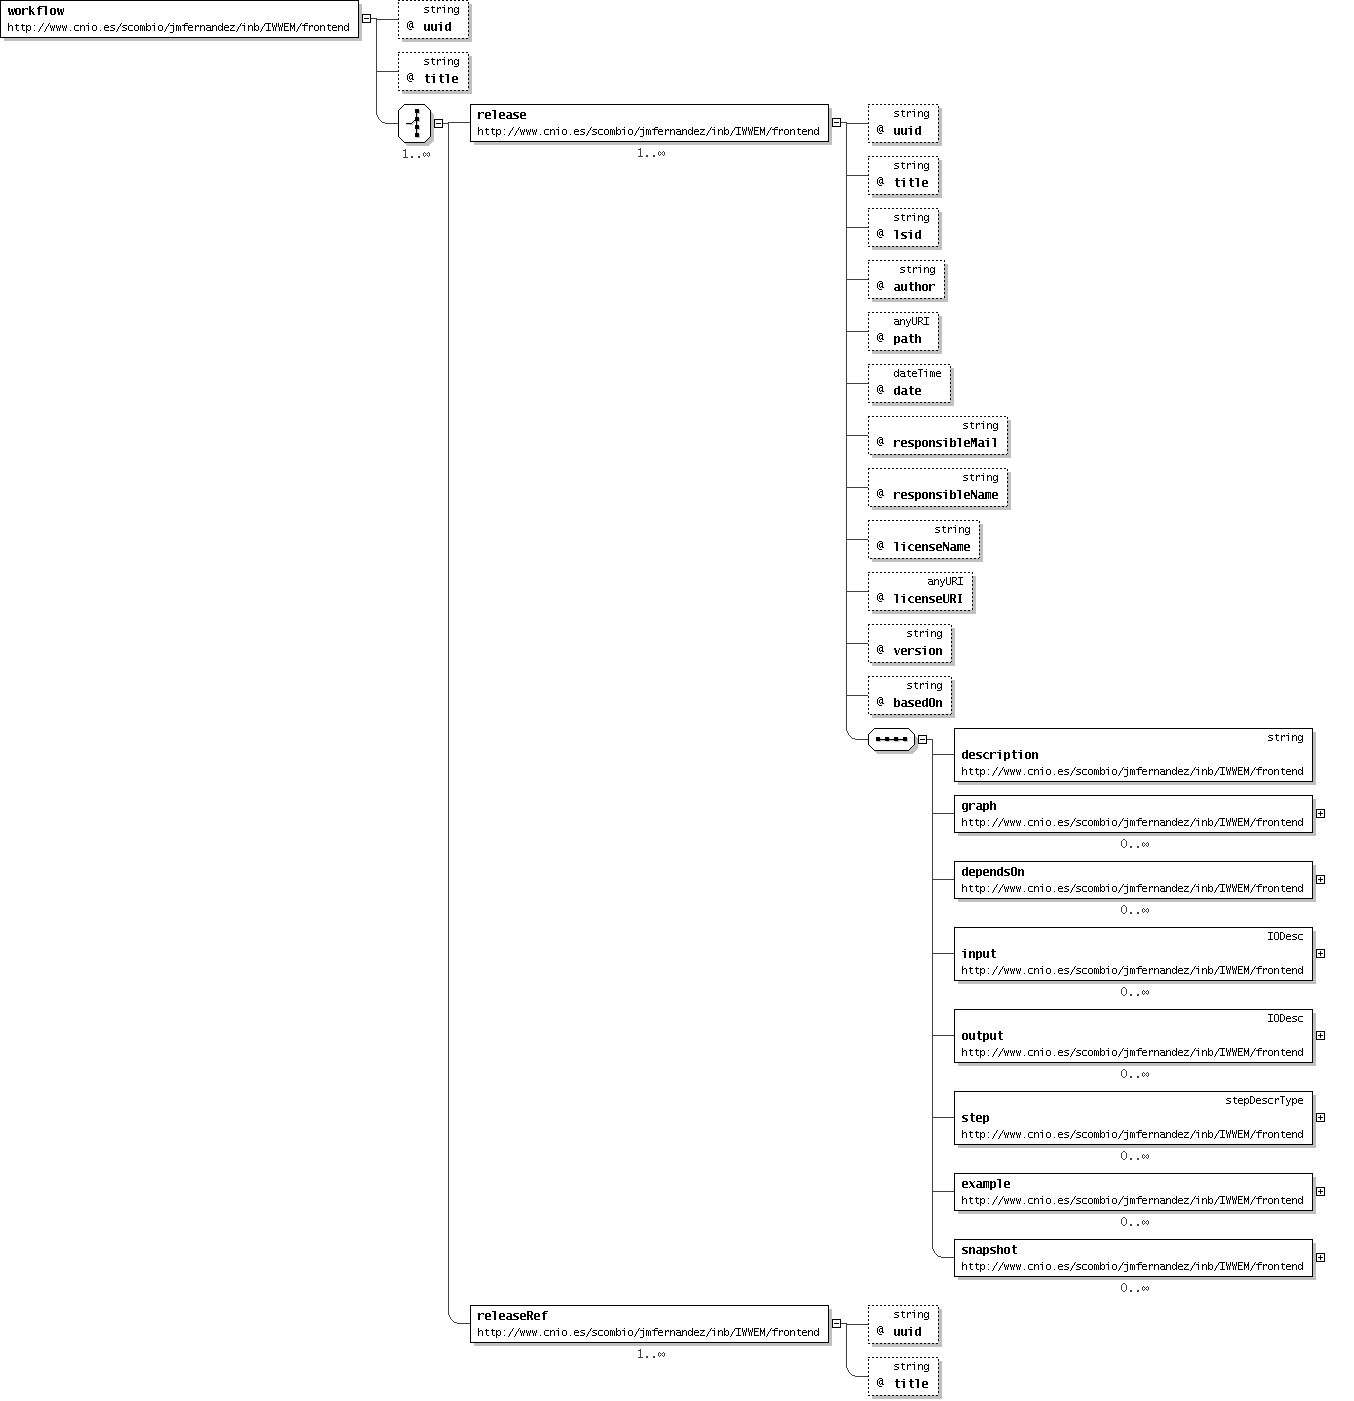
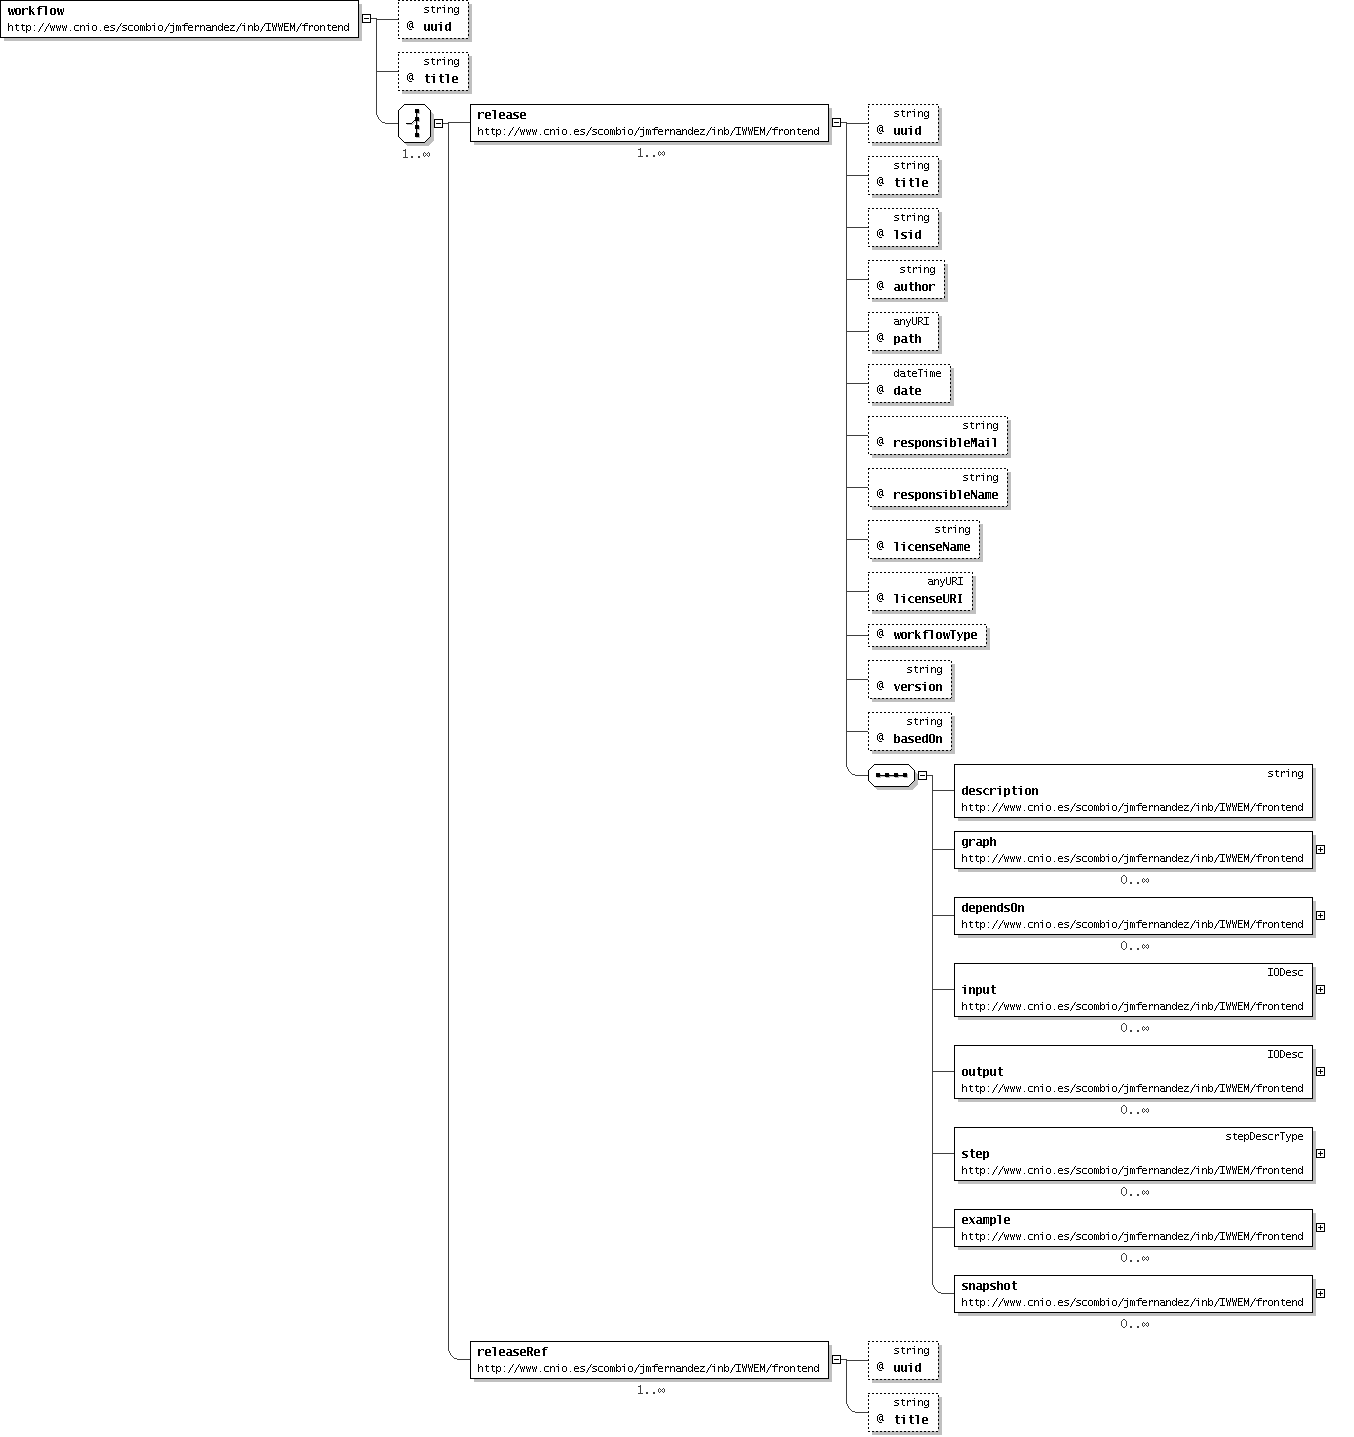
*	IWWEM-messages have been updated to take into account the fact 	that a workflow must be labeled with its workflow kind. *	Frontends documentation has been updated. It fixes #24.
git-svn-id: http://trac.bioinfo.cnio.es/svn/iwwem/trunk@267 d1dc078d-3102-4980-90c0-2a41560b4363

diff --git a/weblauncher/docs/IWWEM-messages.xsd.html b/weblauncher/docs/IWWEM-messages.xsd.html
@@ -395,13 +395,13 @@ div#legend div.hint {
       <script type="text/javascript">
 <!--
           /* IDs of XML Instance Representation boxes */
-var xiBoxes = new Array('h1245665552_xibox', 'h787032828_xibox', 'h-770931028_xibox', 'h-1662904490_xibox', 'h-573425983_xibox', 'h-1580830651_xibox', 'h-358993540_xibox', 'h119908574_xibox', 'h2005213789_xibox', 'h-387077432_xibox', 'h-755110523_xibox', 'h1073158951_xibox', 'h1550451623_xibox', 'h-1091810772_xibox', 'h819360172_xibox', 'h-1903422826_xibox', 'h932847914_xibox', 'h1300956578_xibox', 'h-1338045275_xibox', 'h1663084319_xibox', 'h194883282_xibox', 'h-315118956_xibox', 'h1320607423_xibox', 'h-543288000_xibox', 'h886358932_xibox', 'h1132667318_xibox', 'h1535272431_xibox', 'h-852612557_xibox');
+var xiBoxes = new Array('h1245665552_xibox', 'h787032828_xibox', 'h-770931028_xibox', 'h-1662904490_xibox', 'h-573425983_xibox', 'h-1580830651_xibox', 'h-358993540_xibox', 'h119908574_xibox', 'h2005213789_xibox', 'h-387077432_xibox', 'h-755110523_xibox', 'h1073158951_xibox', 'h1550451623_xibox', 'h-1091810772_xibox', 'h819360172_xibox', 'h-1903422826_xibox', 'h932847914_xibox', 'h624739177_xibox', 'h1300956578_xibox', 'h-1338045275_xibox', 'h1663084319_xibox', 'h194883282_xibox', 'h-315118956_xibox', 'h1320607423_xibox', 'h-543288000_xibox', 'h886358932_xibox', 'h1132667318_xibox', 'h1535272431_xibox', 'h-852612557_xibox');
 /* IDs of diagram boxes */
-var diagramBoxes = new Array('h1245665552_diagram', 'h787032828_diagram', 'h-770931028_diagram', 'h-1662904490_diagram', 'h-573425983_diagram', 'h-1580830651_diagram', 'h-358993540_diagram', 'h119908574_diagram', 'h2005213789_diagram', 'h-387077432_diagram', 'h-755110523_diagram', 'h1073158951_diagram', 'h1550451623_diagram', 'h-1091810772_diagram', 'h819360172_diagram', 'h-1903422826_diagram', 'h932847914_diagram', 'h1300956578_diagram', 'h-1338045275_diagram', 'h1663084319_diagram', 'h194883282_diagram', 'h-315118956_diagram', 'h1320607423_diagram', 'h-543288000_diagram', 'h886358932_diagram', 'h1132667318_diagram', 'h1535272431_diagram', 'h-852612557_diagram');
+var diagramBoxes = new Array('h1245665552_diagram', 'h787032828_diagram', 'h-770931028_diagram', 'h-1662904490_diagram', 'h-573425983_diagram', 'h-1580830651_diagram', 'h-358993540_diagram', 'h119908574_diagram', 'h2005213789_diagram', 'h-387077432_diagram', 'h-755110523_diagram', 'h1073158951_diagram', 'h1550451623_diagram', 'h-1091810772_diagram', 'h819360172_diagram', 'h-1903422826_diagram', 'h932847914_diagram', 'h624739177_diagram', 'h1300956578_diagram', 'h-1338045275_diagram', 'h1663084319_diagram', 'h194883282_diagram', 'h-315118956_diagram', 'h1320607423_diagram', 'h-543288000_diagram', 'h886358932_diagram', 'h1132667318_diagram', 'h1535272431_diagram', 'h-852612557_diagram');
 /* IDs of logical diagram boxes */
 var logicalDiagramBoxes = new Array('h-573425983_logicalDiagram', 'h-1580830651_logicalDiagram', 'h1073158951_logicalDiagram', 'h1550451623_logicalDiagram', 'h-1091810772_logicalDiagram', 'h819360172_logicalDiagram', 'h1300956578_logicalDiagram', 'h1320607423_logicalDiagram', 'h-543288000_logicalDiagram', 'h886358932_logicalDiagram', 'h1132667318_logicalDiagram', 'h1535272431_logicalDiagram', 'h-852612557_logicalDiagram');
 /* IDs of Schema Component Representation boxes */
-var scBoxes = new Array('schema_scbox', 'h1245665552_scbox', 'h787032828_scbox', 'h-770931028_scbox', 'h-1662904490_scbox', 'h-573425983_scbox', 'h-1580830651_scbox', 'h-358993540_scbox', 'h119908574_scbox', 'h2005213789_scbox', 'h-387077432_scbox', 'h-755110523_scbox', 'h1073158951_scbox', 'h1550451623_scbox', 'h-1091810772_scbox', 'h819360172_scbox', 'h-1903422826_scbox', 'h932847914_scbox', 'h1300956578_scbox', 'h-1338045275_scbox', 'h1663084319_scbox', 'h194883282_scbox', 'h-315118956_scbox', 'h1320607423_scbox', 'h-543288000_scbox', 'h886358932_scbox', 'h1132667318_scbox', 'h1535272431_scbox', 'h-852612557_scbox');
+var scBoxes = new Array('schema_scbox', 'h1245665552_scbox', 'h787032828_scbox', 'h-770931028_scbox', 'h-1662904490_scbox', 'h-573425983_scbox', 'h-1580830651_scbox', 'h-358993540_scbox', 'h119908574_scbox', 'h2005213789_scbox', 'h-387077432_scbox', 'h-755110523_scbox', 'h1073158951_scbox', 'h1550451623_scbox', 'h-1091810772_scbox', 'h819360172_scbox', 'h-1903422826_scbox', 'h932847914_scbox', 'h624739177_scbox', 'h1300956578_scbox', 'h-1338045275_scbox', 'h1663084319_scbox', 'h194883282_scbox', 'h-315118956_scbox', 'h1320607423_scbox', 'h-543288000_scbox', 'h886358932_scbox', 'h1132667318_scbox', 'h1535272431_scbox', 'h-852612557_scbox');
 
 /**
  * Can get the ID of the button controlling
@@ -865,6 +865,10 @@ if (gc != null) {
                   </a>
                </li>
                <li>
+                  <a href="#h624739177">Attribute Group: <strong>wfTypeAttrGroup</strong>
+                  </a>
+               </li>
+               <li>
                   <a href="#h-1903422826">Attribute Group: <strong>workflowRefAttrGroup</strong>
                   </a>
                </li>
@@ -938,7 +942,7 @@ if (gc != null) {
          </tr>
          <tr>
             <th>Documentation</th>
-            <td class="documentation">$Id: IWWEM-messages.xsd 262 2008-10-22 16:16:35Z jmfernandez $
+            <td class="documentation">$Id: IWWEM-messages.xsd 266 2008-12-05 22:25:39Z jmfernandez $
 	
 This file is part of IWWE&amp;M, the Interactive Web Workflow Enactor &amp; Manager.
 
@@ -1441,8 +1445,8 @@ web services by José María Fernández González, 2007.</td>
                   <br/>
                   <span style="margin-left: 0.5em"> workflowType="<span class="constraint">
                         <span class="type">
-                           <a href="#ns_xsd" title="Find out namespace of 'xsd' prefix">xsd</a>:string</span> (<em>value</em> comes from list: {'Taverna1'|'Taverna2'})</span> 
-                     <span class="occurs">[1]</span> 
+                           <a href="#ns_xsd" title="Find out namespace of 'xsd' prefix">xsd</a>:string</span> (<em>value</em> comes from list: {'any'|'Taverna1'|'Taverna2'})</span> 
+                     <span class="occurs">[0..1]</span> 
                      <p class="documentation">'The workflow type reported by this workflow domain class'</p>"</span>
                   <br/>
                   <span style="margin-left: 0.5em"> listingType="<span class="constraint">
@@ -1502,15 +1506,11 @@ web services by José María Fernández González, 2007.</td>
                                        <span class="type">
                                           <a href="#ns_xsd" title="Find out namespace of 'xsd' prefix">xsd</a>:string</span>
                                     </span>" <span class="scTag">use</span>="<span class="scContent">required</span>"/&gt;</div>
-                                 <div style="margin-left: 1.5em">&lt;<span class="scTag">xsd:attribute</span> 
-                                    <span class="scTag">name</span>="<span class="scContent">workflowType</span>" <span class="scTag">use</span>="<span class="scContent">required</span>"&gt;<div style="margin-left: 1.5em">&lt;<span class="scTag">xsd:simpleType</span>&gt;<div style="margin-left: 1.5em">&lt;<span class="scTag">xsd:restriction</span> 
-                                          <span class="scTag">base</span>="<span class="scContent">
-                                             <span class="type">
-                                                <a href="#ns_xsd" title="Find out namespace of 'xsd' prefix">xsd</a>:string</span>
-                                          </span>"&gt;<div style="margin-left: 1.5em">&lt;<span class="scTag">xsd:enumeration</span> 
-                                             <span class="scTag">value</span>="<span class="scContent">Taverna1</span>"/&gt;</div>
-                                          <div style="margin-left: 1.5em">&lt;<span class="scTag">xsd:enumeration</span> 
-                                             <span class="scTag">value</span>="<span class="scContent">Taverna2</span>"/&gt;</div>&lt;/<span class="scTag">xsd:restriction</span>&gt;</div>&lt;/<span class="scTag">xsd:simpleType</span>&gt;</div>&lt;/<span class="scTag">xsd:attribute</span>&gt;</div>
+                                 <div style="margin-left: 1.5em">&lt;<span class="scTag">xsd:attributeGroup</span> 
+                                    <span class="scTag">ref</span>="<span class="scContent">
+                                       <a href="#ns_iwwem" title="Find out namespace of 'iwwem' prefix">iwwem</a>:<a title="Jump to &#34;wfTypeAttrGroup&#34; attribute group definition."
+                                          href="#h624739177">wfTypeAttrGroup</a>
+                                    </span>"/&gt;</div>
                                  <div style="margin-left: 1.5em">&lt;<span class="scTag">xsd:attribute</span> 
                                     <span class="scTag">name</span>="<span class="scContent">listingType</span>" <span class="scTag">use</span>="<span class="scContent">required</span>"&gt;<div style="margin-left: 1.5em">&lt;<span class="scTag">xsd:simpleType</span>&gt;<div style="margin-left: 1.5em">&lt;<span class="scTag">xsd:restriction</span> 
                                           <span class="scTag">base</span>="<span class="scContent">
@@ -2998,6 +2998,12 @@ The textual content of this element is the description of the example (possibly 
                      <span class="occurs">[1]</span> 
                      <p class="documentation">'The URI of the defined license'</p>"</span>
                   <br/>
+                  <span style="margin-left: 0.5em"> workflowType="<span class="constraint">
+                        <span class="type">
+                           <a href="#ns_xsd" title="Find out namespace of 'xsd' prefix">xsd</a>:string</span> (<em>value</em> comes from list: {'any'|'Taverna1'|'Taverna2'})</span> 
+                     <span class="occurs">[0..1]</span> 
+                     <p class="documentation">'The workflow type reported by this workflow domain class'</p>"</span>
+                  <br/>
                   <span style="margin-left: 0.5em"> version="<span class="type">
                         <a href="#ns_xsd" title="Find out namespace of 'xsd' prefix">xsd</a>:string</span> 
                      <span class="occurs">[0..1]</span> 
@@ -3105,10 +3111,13 @@ The textual content of this element is the description of the example (possibly 
                <area shape="rect" alt="h2005213789" coords="433,658,639,684"
                      href="IWWEM-messages.xsd.html#h2005213789"/>
 
-               <area shape="rect" alt="h-1903422826" coords="454,766,716,792"
+               <area shape="rect" alt="h624739177" coords="433,694,660,720"
+                     href="IWWEM-messages.xsd.html#h624739177"/>
+
+               <area shape="rect" alt="h-1903422826" coords="454,802,716,828"
                      href="IWWEM-messages.xsd.html#h-1903422826"/>
 
-               <area shape="rect" alt="h-1903422826" coords="184,816,446,842"
+               <area shape="rect" alt="h-1903422826" coords="184,852,446,878"
                      href="IWWEM-messages.xsd.html#h-1903422826"/>
 
             </map>
@@ -3211,6 +3220,11 @@ The textual content of this element is the description of the example (possibly 
                            <div style="margin-left: 1.5em">&lt;<span class="scTag">xsd:attributeGroup</span> 
                               <span class="scTag">ref</span>="<span class="scContent">
                                  <a href="#ns_iwwem" title="Find out namespace of 'iwwem' prefix">iwwem</a>:<a title="Jump to &#34;licenseAttrs&#34; attribute group definition." href="#h2005213789">licenseAttrs</a>
+                              </span>"/&gt;</div>
+                           <div style="margin-left: 1.5em">&lt;<span class="scTag">xsd:attributeGroup</span> 
+                              <span class="scTag">ref</span>="<span class="scContent">
+                                 <a href="#ns_iwwem" title="Find out namespace of 'iwwem' prefix">iwwem</a>:<a title="Jump to &#34;wfTypeAttrGroup&#34; attribute group definition."
+                                    href="#h624739177">wfTypeAttrGroup</a>
                               </span>"/&gt;</div>
                            <div style="margin-left: 1.5em">&lt;<span class="scTag">xsd:attribute</span> 
                               <span class="scTag">name</span>="<span class="scContent">version</span>" <span class="scTag">type</span>="<span class="scContent">
@@ -4081,6 +4095,93 @@ workflowmanager frontend module returns the information following this sub-schem
          <script type="text/javascript">
 <!--
           setState('h-387077432_scbox', false);
+// -->
+</script>
+      </div>
+      <div style="text-align: right; clear: both;">
+         <a href="#top">top</a>
+      </div>
+      <hr/>
+      <h3>Attribute Group: <a name="h624739177" class="name">wfTypeAttrGroup</a>
+      </h3>
+      <table class="properties">
+         <tr>
+            <th>Name</th>
+            <td>wfTypeAttrGroup</td>
+         </tr>
+         <tr>
+            <th>Used by (from the same schema document)</th>
+            <td>Element <b>
+                  <a href="#h1300956578">workflow</a>
+               </b>, Element <b>
+                  <a href="#h1320607423">domainClasses</a>
+               </b>
+            </td>
+         </tr>
+      </table>
+      <div class="sample box">
+         <div>
+            <input type="button" id="h624739177_xibox_button" class="control"
+                   onclick="switchState('h624739177_xibox'); return false;"
+                   style="display: none"/> 
+            <span class="caption">XML Instance Representation</span>
+         </div>
+         <div id="h624739177_xibox" class="contents">
+            <span style="margin-left: 0em"> workflowType="<span class="constraint">
+                  <span class="type">
+                     <a href="#ns_xsd" title="Find out namespace of 'xsd' prefix">xsd</a>:string</span> (<em>value</em> comes from list: {'any'|'Taverna1'|'Taverna2'})</span> 
+               <span class="occurs">[0..1]</span> 
+               <p class="documentation">'The workflow type reported by this workflow domain class'</p>"</span>
+         </div>
+         <script type="text/javascript">
+<!--
+          setState('h624739177_xibox', true);
+// -->
+</script>
+      </div>
+      <div class="sample box">
+         <div>
+            <input type="button" id="h624739177_diagram_button" class="control"
+                   onclick="switchState('h624739177_diagram'); return false;"
+                   style="display: none"/> 
+            <span class="caption">Diagram</span>
+         </div>
+         <div id="h624739177_diagram" class="contents">
+            <img usemap="#h-921571952" src="schemaDiagrams/h-921571952.png"/>
+            <!--
+            Map ref: file:/home/jmfernandez/projects/INBWorkflowLauncher/weblauncher/docs//schemaDiagrams/h-921571952.map--><map name="h-921571952">
+</map>
+         </div>
+         <script type="text/javascript">
+<!--
+          setState('h624739177_diagram', true);
+// -->
+</script>
+      </div>
+      <div class="schemaComponent box">
+         <div>
+            <input type="button" id="h624739177_scbox_button" class="control"
+                   onclick="switchState('h624739177_scbox'); return false;"
+                   style="display: none"/> 
+            <span class="caption">Schema Component Representation</span>
+         </div>
+         <div id="h624739177_scbox" class="contents">
+            <div style="margin-left: 0em">&lt;<span class="scTag">xsd:attributeGroup</span> 
+               <span class="scTag">name</span>="<span class="scContent">wfTypeAttrGroup</span>"&gt;<div style="margin-left: 1.5em">&lt;<span class="scTag">xsd:attribute</span> 
+                  <span class="scTag">name</span>="<span class="scContent">workflowType</span>" <span class="scTag">use</span>="<span class="scContent">optional</span>" <span class="scTag">default</span>="<span class="scContent">Taverna1</span>"&gt;<div style="margin-left: 1.5em">&lt;<span class="scTag">xsd:simpleType</span>&gt;<div style="margin-left: 1.5em">&lt;<span class="scTag">xsd:restriction</span> 
+                        <span class="scTag">base</span>="<span class="scContent">
+                           <span class="type">
+                              <a href="#ns_xsd" title="Find out namespace of 'xsd' prefix">xsd</a>:string</span>
+                        </span>"&gt;<div style="margin-left: 1.5em">&lt;<span class="scTag">xsd:enumeration</span> 
+                           <span class="scTag">value</span>="<span class="scContent">any</span>"/&gt;</div>
+                        <div style="margin-left: 1.5em">&lt;<span class="scTag">xsd:enumeration</span> 
+                           <span class="scTag">value</span>="<span class="scContent">Taverna1</span>"/&gt;</div>
+                        <div style="margin-left: 1.5em">&lt;<span class="scTag">xsd:enumeration</span> 
+                           <span class="scTag">value</span>="<span class="scContent">Taverna2</span>"/&gt;</div>&lt;/<span class="scTag">xsd:restriction</span>&gt;</div>&lt;/<span class="scTag">xsd:simpleType</span>&gt;</div>&lt;/<span class="scTag">xsd:attribute</span>&gt;</div>&lt;/<span class="scTag">xsd:attributeGroup</span>&gt;</div>
+         </div>
+         <script type="text/javascript">
+<!--
+          setState('h624739177_scbox', false);
 // -->
 </script>
       </div>

diff --git a/weblauncher/docs/frontends.html b/weblauncher/docs/frontends.html
@@ -165,7 +165,7 @@ These parameters were designed to upload new workflows to the workflow repositor
 </li>
 <li><u><span class="parameter">MIME_</span> prefixed parameters <i>(optional, multiple)</i></u>: These parameters are used to tell the MIME types of the values for the inputs of the workflow to be enacted, and they should be legal ones. The text after the <span class="parameter">MIME_</span> prefix sets the name of the input to be assigned to. If there is no prefixed <span class="parameter">PARAM_</span> parameter corresponding to a MIME type one, then it is discarded. Other supplementary way to send a MIME type is through the Content-Type header associated to a file transfer in multipart/form-data style.
 </li>
-<li><u><span class="parameter">exampleName</span> and <span class="parameter">exampleDesc</span> <i>(optional)</i></u>: These parameters are used to save and describe the input to this workflow enaction as an input example associated to the original workflow. These parameters do not work with inline workflow definitions. <span class="parameter">exampleName</span> has no restrictions in its value, and at the moment it should be encoded in ISO-8859-1. <span class="parameter">exampleDesc</span> is the description of the input example which is being created, and it can be HTML content (also encoded in ISO-8859-1). The example addition operation is not effective until it is confirmed (see <span class="frontend"><a href="#IWWEMconfirm">IWWEMconfirm</a></span> and <span class="parameter">responsibleMail</span> parameter).
+<li><u><span class="parameter">exampleName</span> and <span class="parameter">exampleDesc</span> <i>(optional)</i></u>: These parameters are used to save and describe the input to this workflow enaction as an input example associated to the original workflow. These parameters do not work with inline workflow definitions. <span class="parameter">exampleName</span> has no restrictions in its value, and at the moment it should be encoded in UTF-8. <span class="parameter">exampleDesc</span> is the description of the input example which is being created, and it can be HTML content (also encoded in UTF-8). The example addition operation is not effective until it is confirmed (see <span class="frontend"><a href="#IWWEMconfirm">IWWEMconfirm</a></span> and <span class="parameter">responsibleMail</span> parameter).
 </li>
 <li><u><span class="parameter">responsibleMail</span> and <span class="parameter">responsibleName</span><i>(optional)</i></u>:
 Parameter <span class="parameter">responsibleMail</span> must be set with a valid e-mail address when optional <span class="parameter">exampleName</span> parameter is set, because it is the e-mail address of the responsible person of the example (different from the workflow author and workflow responsible).
@@ -204,8 +204,8 @@ with the <span class="parameter">jobId</span> parameter are reclaimed and freed.
 </li>
 <li><u><span class="parameter">snapshotName</span> and <span class="parameter">snapshotDesc</span> <i>(optional)</i></u>:
 These parameters are used to take, name and describe an snapshot. An snapshot of an snapshot <u>cannot</u>
-be taken. <span class="parameter">snapshotName</span> has no restrictions in its value, and at the moment it should be encoded in ISO-8859-1.
-<span class="parameter">snapshotDesc</span> is the description of the snapshot, and it can be HTML content (also encoded in ISO-8859-1). The snapshot addition operation is not effective until it is confirmed (see <span class="frontend"><a href="#IWWEMconfirm">IWWEMconfirm</a></span> and <span class="parameter">responsibleMail</span> parameter).
+be taken. <span class="parameter">snapshotName</span> has no restrictions in its value, and at the moment it should be encoded in UTF-8.
+<span class="parameter">snapshotDesc</span> is the description of the snapshot, and it can be HTML content (also encoded in UTF-8). The snapshot addition operation is not effective until it is confirmed (see <span class="frontend"><a href="#IWWEMconfirm">IWWEMconfirm</a></span> and <span class="parameter">responsibleMail</span> parameter).
 </li>
 <li><u><span class="parameter">responsibleMail</span> and <span class="parameter">responsibleName</span><i>(optional)</i></u>:
 Parameter <span class="parameter">responsibleMail</span> must be set with a valid e-mail address when optional <span class="parameter">snapshotName</span> parameter is set, because it is the e-mail address of the responsible person of the snapshot (different from the enaction responsible).
